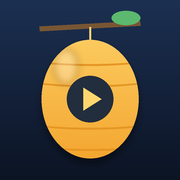
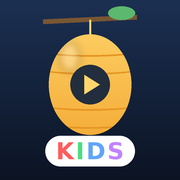
Ícone com selo KIDS
Claude-Session: https://claude.ai/code/session_01UhsnjRY4hwCejsuHBtrKzE

Changed region(s): [[0.1944, 0.0278, 0.8056, 0.9444]]

diff --git a/index.html b/index.html
@@ -11,7 +11,7 @@
 <meta name="apple-mobile-web-app-title" content="Casulo Play">
 <meta name="apple-mobile-web-app-status-bar-style" content="black">
 <meta name="theme-color" content="#0b1422">
-<meta name="mt-build" content="20261127122437">
+<meta name="mt-build" content="20261127122619">
 <link rel="preconnect" href="https://fonts.googleapis.com">
 <link rel="stylesheet" href="https://cdn.jsdelivr.net/npm/@tabler/icons-webfont@3.19.0/dist/tabler-icons.min.css">
 <link href="https://fonts.googleapis.com/css2?family=Nunito:wght@500;700;900&display=swap" rel="stylesheet">
